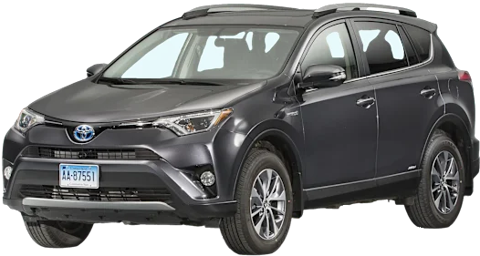
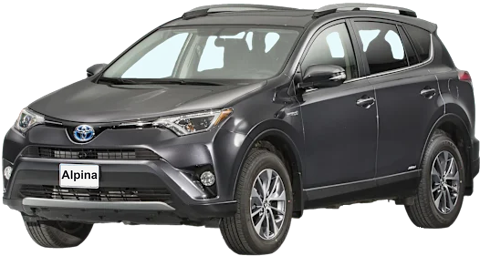
Nur Mo bis Fr, keine Uhrzeiten bei den Hunderunden, Zeilen als Hunde beschriftet
- Woche hat fünf Tage, Samstag und Sonntag fallen überall weg, auch im
  Kalender-Export.
- Hunderunden zeigen nur noch M oder S; keine Zeiten im Raster, im Blatt,
  in der Legende, im Protokoll und im Abo. Svenjas Runden stehen im
  Kalender als ein Ganztagestermin pro Tag (Morgen, Nachmittag oder beide).
- Zeilen heissen «Hunde Morgen» und «Hunde Nachmittag».
- Toyota-Bild mit weissem Schild «Alpina».

Changed region(s): [[0.125, 0.625, 0.2188, 0.75]]

diff --git a/src/raster.js b/src/raster.js
@@ -1,5 +1,5 @@
 // Darstellung der Woche als Tabelle. Reine Funktion, ohne DOM, testbar in Node.
-import { STANDARD, datumAus } from './regeln.js';
+import { datumAus } from './regeln.js';
 
 const KURZ = ['Mo', 'Di', 'Mi', 'Do', 'Fr', 'Sa', 'So'];
 const zweistellig = (n) => String(n).padStart(2, '0');
@@ -15,13 +15,10 @@ function kopf(t, heute) {
   return `<th class="${klasse}" data-datum="${t.datum}" scope="col"><button type="button" class="tagknopf" data-tag="${t.datum}"><span class="wt">${KURZ[(d.getDay() + 6) % 7]}</span><span class="dt">${d.getDate()}.</span></button></th>`;
 }
 
+// Nur die Person. Die Uhrzeiten der Runden sind Beiwerk und werden nirgends gezeigt.
 function hundeZelle(t, slot) {
-  const r = t[slot];
-  const standard = STANDARD[slot][r.person] ?? [null];
-  const abweichend = r.von !== standard[0];
-  const zeit = abweichend ? `<span class="zeit">${esc(zeitText(r.von, r.bis))}</span>` : '';
-  const p = esc(r.person);
-  return `<td><button type="button" class="runde p${p}" data-tag="${t.datum}" data-slot="${slot}">${p}${zeit}</button></td>`;
+  const p = esc(t[slot].person);
+  return `<td><button type="button" class="runde p${p}" data-tag="${t.datum}" data-slot="${slot}">${p}</button></td>`;
 }
 
 function autoZelle(t, auto) {
@@ -41,8 +38,8 @@ export function rasterHtml(tage, ansicht, heute) {
   const koepfe = tage.map((t) => kopf(t, heute)).join('');
   const zeilen = [];
   if (ansicht === 'alle') {
-    zeilen.push(zeile('<span class="rl">Morgen</span>', tage.map((t) => hundeZelle(t, 'morgen')).join(''), 'hunde'));
-    zeilen.push(zeile('<span class="rl">Nach&shy;mittag</span>', tage.map((t) => hundeZelle(t, 'nachmittag')).join(''), 'hunde'));
+    zeilen.push(zeile('<span class="rl"><small>Hunde</small>Morgen</span>', tage.map((t) => hundeZelle(t, 'morgen')).join(''), 'hunde'));
+    zeilen.push(zeile('<span class="rl"><small>Hunde</small>Nach&shy;mittag</span>', tage.map((t) => hundeZelle(t, 'nachmittag')).join(''), 'hunde'));
   }
   zeilen.push(zeile('<img src="bilder/kia.png" alt="Kia PV5" class="autobild">', tage.map((t) => autoZelle(t, 'kia')).join(''), 'autos'));
   zeilen.push(zeile('<img src="bilder/rav.png" alt="Toyota RAV" class="autobild">', tage.map((t) => autoZelle(t, 'rav')).join(''), 'autos'));

diff --git a/tests/ics.test.js b/tests/ics.test.js
@@ -11,8 +11,8 @@ const JETZT = new Date(Date.UTC(2026, 9, 18, 10, 0, 0));
 const woche = () => wocheAb(new Date(2026, 9, 19)).map((d) => loeseTag(d, DOCS[d]));
 const ics = () => baueIcs(woche(), JETZT);
 
-test('Woche 19.10.: 6 Termine (Di weg, Mi ganztägig, Mi Hunde x2, Do weg, Do Hunde)', () => {
-  assert.equal(ics().match(/BEGIN:VEVENT/g).length, 6);
+test('Woche 19.10.: 5 Termine (Di weg, Mi ganztägig, Mi Hunde, Do weg, Do Hunde)', () => {
+  assert.equal(ics().match(/BEGIN:VEVENT/g).length, 5);
 });
 
 test('Abwesenheit mit Zeit als Termin mit Ortszeit', () => {
@@ -29,10 +29,14 @@ test('Ganzer Tag mit offenem Auto als Ganztagestermin', () => {
   assert.ok(s.includes('DTEND;VALUE=DATE:20261022'));
 });
 
-test('Svenja-Runde morgens 8-9 als Termin, keine Manuel-Runden', () => {
+test('Svenja-Runden als ein Ganztagestermin pro Tag ohne Uhrzeit, keine Manuel-Runden', () => {
   const s = ics();
-  assert.ok(s.includes('SUMMARY:Hunde: Svenja'));
-  assert.ok(s.includes('DTSTART;TZID=Europe/Zurich:20261021T080000'));
+  // Mi 21.10.: beide Runden Svenja. Do 22.10.: Manuel weg 07-22, nur der Nachmittag geht an Svenja.
+  assert.ok(s.includes('DTSTART;VALUE=DATE:20261021\r\nDTEND;VALUE=DATE:20261022\r\nSUMMARY:Hunde: Svenja (Morgen und Nachmittag)'));
+  assert.ok(s.includes('DTSTART;VALUE=DATE:20261022\r\nDTEND;VALUE=DATE:20261023\r\nSUMMARY:Hunde: Svenja (Nachmittag)'));
+  // jeder Hunde-Termin ist ganztägig, keiner trägt eine Uhrzeit
+  assert.equal((s.match(/-hunde@auto-hunde\r\nDTSTAMP:[^\r]*\r\nDTSTART;VALUE=DATE/g) || []).length, 2);
+  assert.equal((s.match(/-hunde@auto-hunde\r\nDTSTAMP:[^\r]*\r\nDTSTART;TZID/g) || []).length, 0);
   assert.ok(!s.includes('Hunde: Manuel'));
 });
 
@@ -55,7 +59,7 @@ test('Kopf, stabile UIDs, DTSTAMP in UTC, CRLF', () => {
   assert.ok(s.includes('X-WR-CALNAME:Auto-Hunde'));
   assert.ok(s.includes('BEGIN:VTIMEZONE'));
   assert.ok(s.includes('UID:2026-10-22-abwesend@auto-hunde'));
-  assert.ok(s.includes('UID:2026-10-21-morgen@auto-hunde'));
+  assert.ok(s.includes('UID:2026-10-21-hunde@auto-hunde'));
   assert.ok(s.includes('DTSTAMP:20261018T100000Z'));
   assert.ok(s.endsWith('END:VCALENDAR\r\n'));
   assert.ok(s.split('\r\n').every((z) => !z.includes('\n')));

diff --git a/tests/raster.test.js b/tests/raster.test.js
@@ -9,9 +9,11 @@ const DOCS = {
 };
 const tage = () => wocheAb(new Date(2026, 9, 19)).map((d) => loeseTag(d, DOCS[d]));
 
-test('Ansicht alle: sieben Spaltenköpfe und die Kia-Zeit', () => {
+test('Ansicht alle: fünf Spaltenköpfe Mo bis Fr und die Kia-Zeit', () => {
   const h = rasterHtml(tage(), 'alle', '2026-10-19');
-  for (const k of ['Mo', 'Di', 'Mi', 'Do', 'Fr', 'Sa', 'So']) assert.ok(h.includes(`>${k}<`), k);
+  for (const k of ['Mo', 'Di', 'Mi', 'Do', 'Fr']) assert.ok(h.includes(`>${k}<`), k);
+  for (const k of ['Sa', 'So']) assert.ok(!h.includes(`>${k}<`), k);
+  assert.equal((h.match(/<th class="tag[^"]*" data-datum=/g) || []).length, 5);
   assert.ok(h.includes('07-22'));
   assert.ok(h.includes('data-slot='));
 });
@@ -30,14 +32,18 @@ test('heutige Spalte ist markiert', () => {
   assert.doesNotMatch(h, /class="tag heute"[^>]*data-datum="2026-10-20"/);
 });
 
-test('Svenja-Runde als S, abweichende Zeit sichtbar', () => {
+test('Hunderunde zeigt nur die Person, nie eine Uhrzeit; Zeilen sind als Hunde beschriftet', () => {
   const t = loeseTag('2026-10-23', {
     abwesend: { auto: 'kia', von: 6, bis: 20 },
     morgen: { person: 'M', von: 5, bis: 6, quelle: 'hand' },
   });
   const h = rasterHtml([t], 'alle', '2026-10-19');
-  assert.ok(h.includes('05-06'));
-  assert.match(h, /data-slot="nachmittag"[^>]*>[\s\S]*?S/);
+  assert.ok(!h.includes('05-06'));
+  assert.ok(!h.includes('16-17'));
+  assert.match(h, /data-slot="morgen"[^>]*>M<\/button>/);
+  assert.match(h, /data-slot="nachmittag"[^>]*>S<\/button>/);
+  assert.match(h, /<th scope="row"><span class="rl"><small>Hunde<\/small>Morgen<\/span>/);
+  assert.match(h, /<small>Hunde<\/small>Nach&shy;mittag/);
 });
 
 test('Mittwoch mit Zeit und offenem Auto zeigt offen 09-15 in beiden Autozeilen', () => {

diff --git a/src/blatt.js b/src/blatt.js
@@ -87,15 +87,13 @@ export function blattAbwesend(tag, onSave, onClose, vorwahl) {
 export function blattRunde(tag, slot, onSave, onClose) {
   const r = tag[slot];
   const person = r.person === 'M' ? 'S' : 'M';
-  const von = STANDARD[slot][person][0];
   const el = document.getElementById('blatt');
   const name = slot === 'morgen' ? 'Hunde am Morgen' : 'Hunde am Nachmittag';
   el.innerHTML = `
     <form method="dialog" class="blattinhalt">
       <h2>${titel(tag.datum)}</h2>
-      <p class="feld">${name}, bisher ${r.person === 'M' ? 'Manuel' : 'Svenja'} ${zweistellig(r.von)}-${zweistellig(r.bis)}</p>
+      <p class="feld">${name}, bisher ${r.person === 'M' ? 'Manuel' : 'Svenja'}</p>
       ${wahl('person', [['M', 'Manuel'], ['S', 'Svenja']], person)}
-      <div class="zeile"><label>ab ${stunden('von', 4, 21, von)} Uhr</label></div>
       <div class="knoepfe">
         <span class="platz"></span>
         <button type="button" id="abbrechen" class="leise">Abbrechen</button>
@@ -106,11 +104,11 @@ export function blattRunde(tag, slot, onSave, onClose) {
     const b = e.target.closest('[data-wert]');
     if (!b) return;
     b.parentElement.querySelectorAll('button').forEach((x) => x.setAttribute('aria-pressed', x === b));
-    el.querySelector('#von').value = STANDARD[slot][b.dataset.wert][0];
   });
   el.querySelector('#speichern').addEventListener('click', () => {
     const person = el.querySelector('[data-wahl="person"] [aria-pressed="true"]').dataset.wert;
-    onSave(person, Number(el.querySelector('#von').value));
+    // Startstunde ist die übliche der Person; sie wird gespeichert, aber nirgends angezeigt.
+    onSave(person, STANDARD[slot][person][0]);
   });
   el.querySelector('#abbrechen').addEventListener('click', onClose);
   el.showModal();

diff --git a/tests/ics-export.test.js b/tests/ics-export.test.js
@@ -38,11 +38,12 @@ test('ladeDocs folgt nextPageToken und wandelt Firestore-Typen', async () => {
   assert.ok(urls[1].includes('pageToken=weiter'));
 });
 
-test('tageImFenster: 28 Tage zurück, 56 voraus, Mittwoche vorbelegt', () => {
+test('tageImFenster: 28 Tage zurück, 56 voraus, nur Mo bis Fr, Mittwoche vorbelegt', () => {
   const tage = tageImFenster(new Date(2026, 9, 18), {});
-  assert.equal(tage.length, 85);
-  assert.equal(tage[0].datum, '2026-09-20');
-  assert.equal(tage[84].datum, '2026-12-13');
+  assert.equal(tage.length, 60); // 85 Kalendertage (So 20.09. bis So 13.12.) minus 13 Sonntage und 12 Samstage
+  assert.equal(tage[0].datum, '2026-09-21');
+  assert.equal(tage[59].datum, '2026-12-11');
+  assert.ok(tage.every((t) => ![0, 6].includes(new Date(t.datum + 'T12:00').getDay())));
   const mittwoche = tage.filter((t) => new Date(t.datum + 'T12:00').getDay() === 3);
   assert.ok(mittwoche.length >= 12);
   assert.ok(mittwoche.every((t) => t.abwesend?.auto === 'offen'));

diff --git a/src/ics.js b/src/ics.js
@@ -58,10 +58,11 @@ export function baueIcs(tage, jetzt, { nurRav = false } = {}) {
       }, jetzt));
     }
     if (nurRav) continue;
-    for (const slot of ['morgen', 'nachmittag']) {
-      const r = t[slot];
-      if (r.person !== 'S') continue;
-      zeilen.push(...termin({ uid: `${t.datum}-${slot}`, titel: 'Hunde: Svenja', datum: t.datum, von: r.von, bis: r.bis }, jetzt));
+    // Svenjas Runden als ein Ganztagestermin pro Tag; Uhrzeiten werden bewusst nicht exportiert.
+    const runden = ['morgen', 'nachmittag'].filter((slot) => t[slot].person === 'S');
+    if (runden.length > 0) {
+      const welche = runden.map((s) => (s === 'morgen' ? 'Morgen' : 'Nachmittag')).join(' und ');
+      zeilen.push(...termin({ uid: `${t.datum}-hunde`, titel: `Hunde: Svenja (${welche})`, datum: t.datum, ganztag: true }, jetzt));
     }
   }
   zeilen.push('END:VCALENDAR');

diff --git a/tests/regeln.test.js b/tests/regeln.test.js
@@ -40,10 +40,11 @@ test('Handrunde Manuel 05-06 bleibt trotz Abwesenheit ab 6', () => {
   assert.deepEqual([t.morgen.person, t.morgen.von, t.nachmittag.person], ['M', 5, 'S']);
 });
 
-test('wocheAb über Zeitumstellung: Woche 19.10. endet So 25.10., nächste beginnt Mo 26.10.', () => {
+test('wocheAb: nur Mo bis Fr; So 25.10. (Zeitumstellung) gehört zur Woche vom 19.10., Mo 26.10. beginnt die nächste', () => {
   assert.deepEqual(wocheAb(new Date(2026, 9, 25)), [
-    '2026-10-19', '2026-10-20', '2026-10-21', '2026-10-22', '2026-10-23', '2026-10-24', '2026-10-25',
+    '2026-10-19', '2026-10-20', '2026-10-21', '2026-10-22', '2026-10-23',
   ]);
+  assert.deepEqual(wocheAb(new Date(2026, 9, 24, 8)), wocheAb(new Date(2026, 9, 19)));
   assert.equal(wocheAb(new Date(2026, 9, 26, 0, 30))[0], '2026-10-26');
 });
 

diff --git a/style.css b/style.css
@@ -64,6 +64,7 @@ button:focus-visible, select:focus-visible { outline: 2px solid var(--manuel); o
 .tagknopf .wt { font-size: 13px; font-weight: 600; }
 .tagknopf .dt { font-size: 11px; color: var(--muted); }
 .rl { display: block; hyphens: manual; }
+.rl small { display: block; font-size: 10px; line-height: 1.1; letter-spacing: .02em; opacity: .8; }
 .autobild { display: block; width: 54px; height: auto; }
 
 .runde, .auto { width: 100%; min-height: 44px; display: flex; flex-direction: column; align-items: center; justify-content: center; line-height: 1.1; }

diff --git a/src/log.js b/src/log.js
@@ -21,7 +21,7 @@ export function logText(datum, aenderung) {
     if (!a) was = 'gelöscht';
     else was = `${AUTO[a.auto] ?? a.auto} ${a.von == null ? 'ganzer Tag' : `${zweistellig(a.von)}-${zweistellig(a.bis)}`}`;
   } else {
-    was = `${SLOT[aenderung.slot]} ${PERSON[aenderung.person] ?? aenderung.person} ${zweistellig(aenderung.von)}-${zweistellig(aenderung.von + 1)}`;
+    was = `Hunde ${SLOT[aenderung.slot]} ${PERSON[aenderung.person] ?? aenderung.person}`;
   }
   return `${tagText(datum)}: ${was}`;
 }

diff --git a/src/regeln.js b/src/regeln.js
@@ -38,7 +38,8 @@ export function startDatum(jetzt) {
 export function wocheAb(d) {
   const montag = new Date(d.getFullYear(), d.getMonth(), d.getDate(), 12);
   montag.setDate(montag.getDate() - ((montag.getDay() + 6) % 7));
-  return Array.from({ length: 7 }, (_, i) => {
+  // Nur Mo bis Fr: am Wochenende gibt es keine Koordination (Entscheid 18.10.2026).
+  return Array.from({ length: 5 }, (_, i) => {
     const x = new Date(montag);
     x.setDate(montag.getDate() + i);
     return tagSchluessel(x);

diff --git a/src/app.js b/src/app.js
@@ -31,7 +31,7 @@ const state = {
 const $ = (s) => document.querySelector(s);
 
 function wochenTitel(datums) {
-  const a = new Date(datums[0] + 'T12:00'); const b = new Date(datums[6] + 'T12:00');
+  const a = new Date(datums[0] + 'T12:00'); const b = new Date(datums[datums.length - 1] + 'T12:00');
   const m = a.getMonth() === b.getMonth() ? `${MONATE[a.getMonth()]}` : `${MONATE[a.getMonth()]} / ${MONATE[b.getMonth()]}`;
   return `${a.getDate()}. bis ${b.getDate()}. ${m}`;
 }
